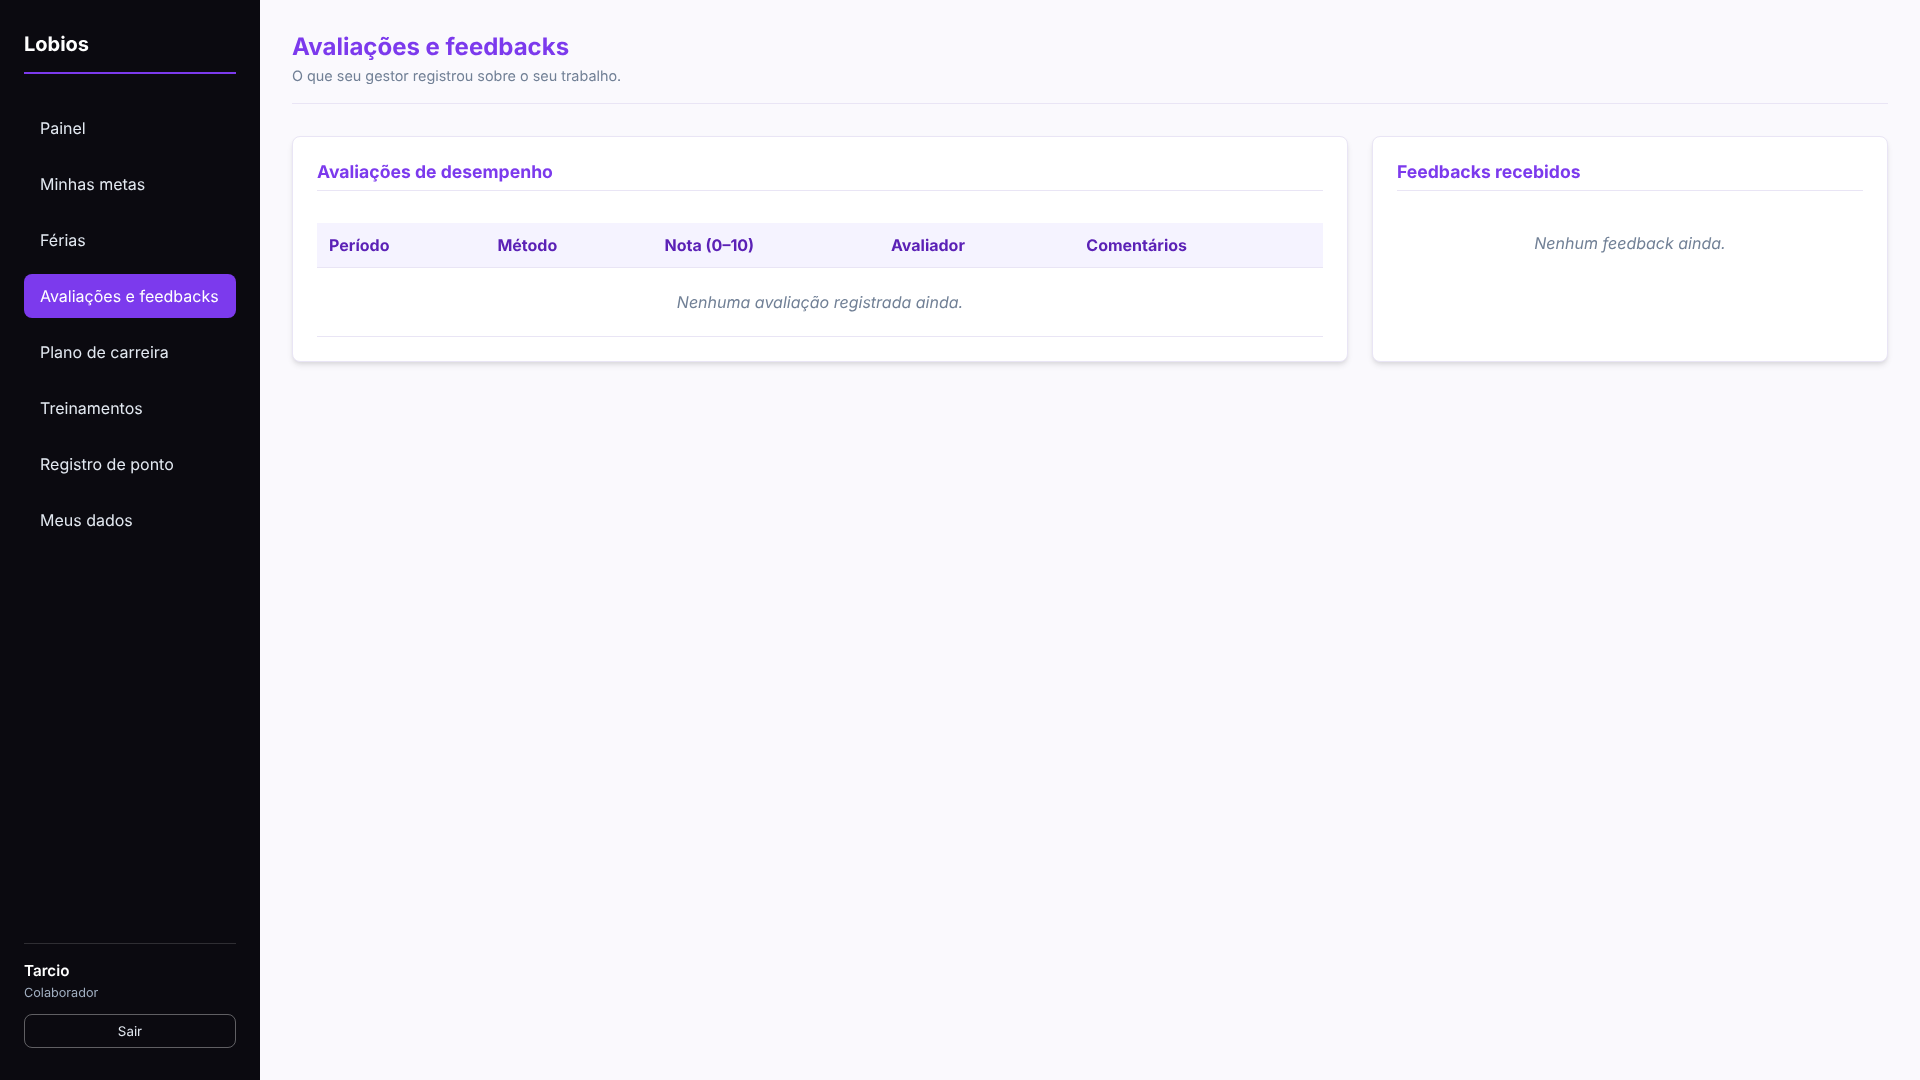
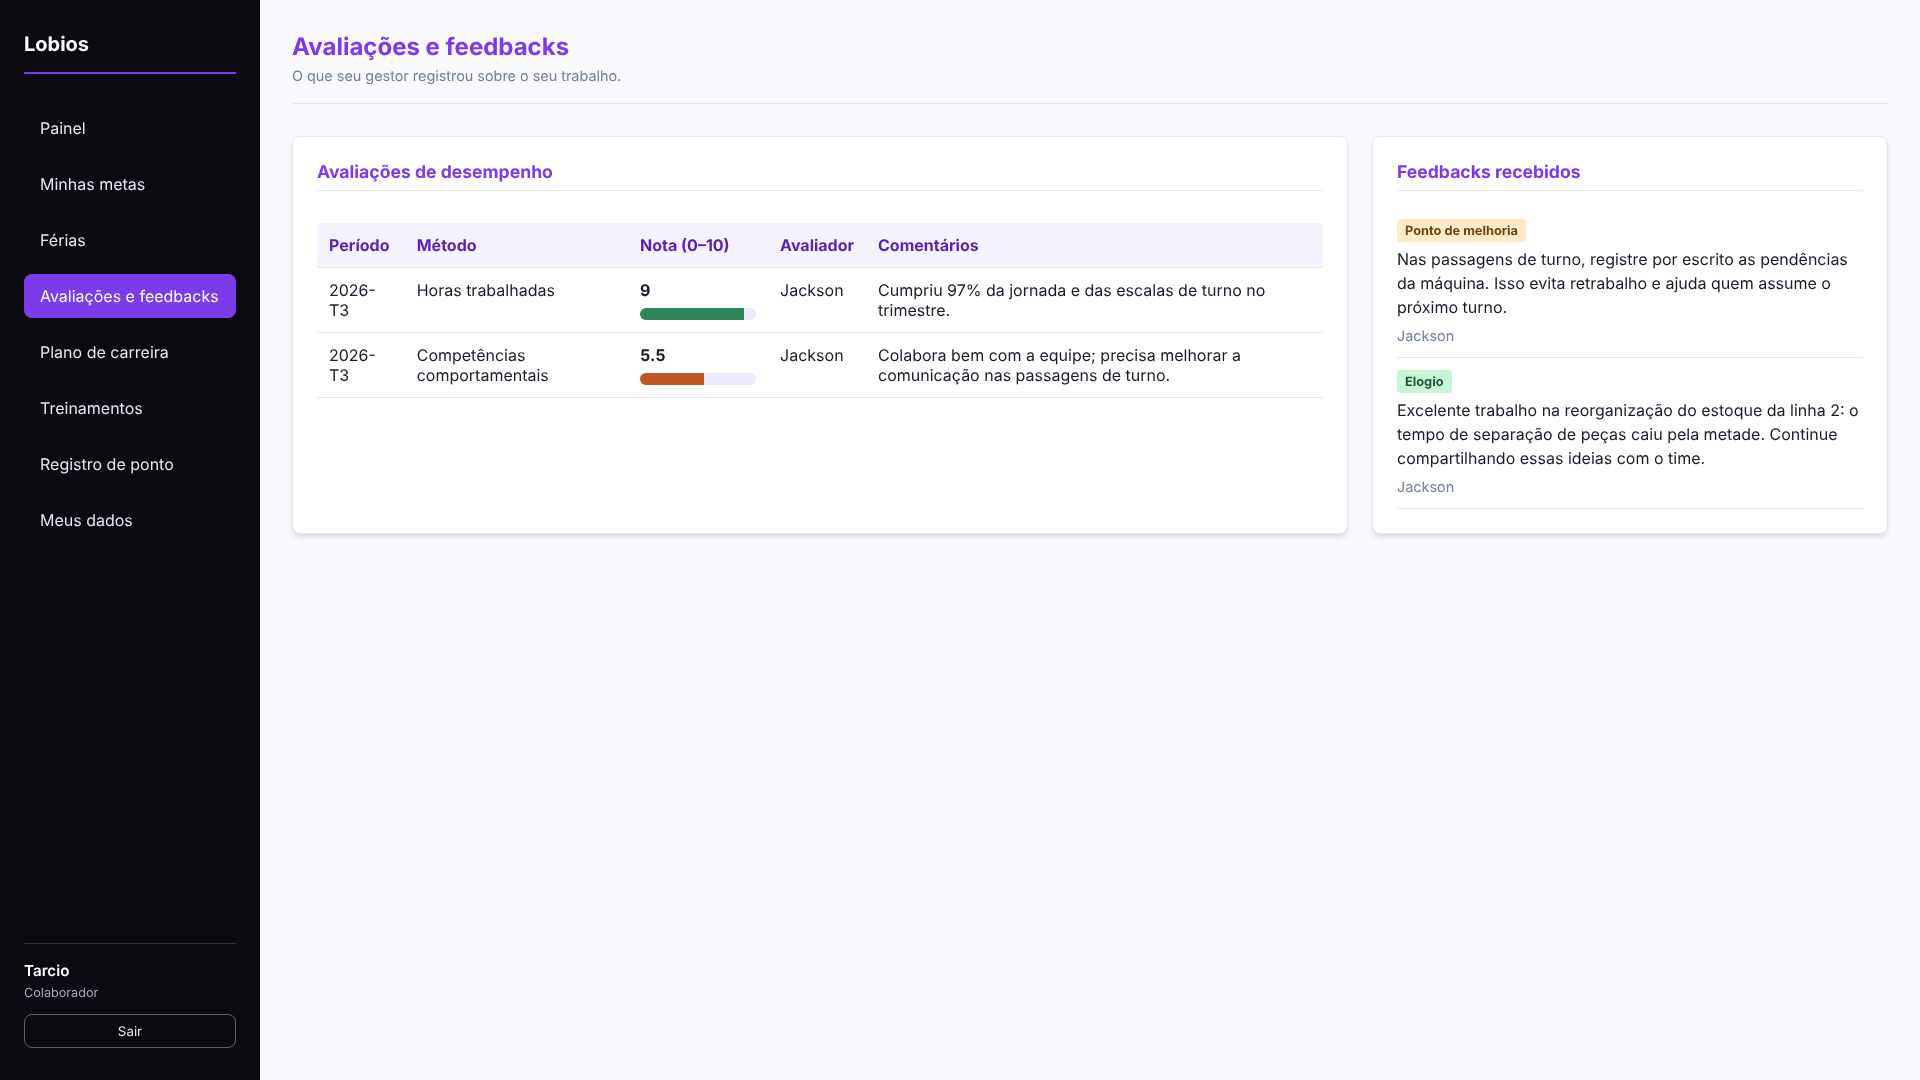
Vídeo: telas com dados de exemplo e foco ajustado
Recaptura das telas de Gestor e Colaborador depois de cadastrar metas,
avaliações e feedbacks de exemplo para a conta de teste do colaborador.
A legenda de Treinamentos agora mostra a recomendação automática gerada
pela nota da avaliação.

Claude-Session: https://claude.ai/code/session_012EX59QPL82HPL6jNwvfdeg

Changed region(s): [[0.1562, 0.2139, 0.6875, 0.3667], [0.7188, 0.1833, 0.9688, 0.4583], [0.2188, 0.2139, 0.2812, 0.275]]

diff --git a/video/src/data.ts b/video/src/data.ts
@@ -100,7 +100,7 @@ export const perfis: Perfil[] = [
       {
         imagem: "gestor-avaliacoes.png",
         menu: 2,
-        foco: [292, 136, 520, 640],
+        foco: [292, 136, 1596, 640],
         titulo: "Avaliações de desempenho",
         texto:
           "Escolha a pessoa, o método e o período e dê uma nota de 0 a 10. Os critérios definidos pelo RH aparecem como guia.",
@@ -108,7 +108,7 @@ export const perfis: Perfil[] = [
       {
         imagem: "gestor-feedbacks.png",
         menu: 3,
-        foco: [292, 136, 520, 440],
+        foco: [292, 136, 1596, 440],
         titulo: "Feedbacks",
         texto:
           "Elogios e pontos de melhoria enviados direto para a área do colaborador.",
@@ -116,7 +116,7 @@ export const perfis: Perfil[] = [
       {
         imagem: "gestor-metas.png",
         menu: 4,
-        foco: [292, 136, 520, 490],
+        foco: [292, 136, 1596, 490],
         titulo: "Metas da equipe",
         texto:
           "Crie metas com título, descrição e prazo para cada pessoa e acompanhe o andamento de todas.",
@@ -139,7 +139,7 @@ export const perfis: Perfil[] = [
       {
         imagem: "funcionario.png",
         menu: 0,
-        foco: [292, 136, 1596, 210],
+        foco: [292, 136, 1596, 290],
         titulo: "Painel",
         texto:
           "Ao entrar, o colaborador vê um resumo das metas, das férias, do último feedback e do plano de carreira.",
@@ -147,7 +147,7 @@ export const perfis: Perfil[] = [
       {
         imagem: "funcionario-metas.png",
         menu: 1,
-        foco: [292, 136, 1596, 180],
+        foco: [292, 136, 1596, 306],
         titulo: "Minhas metas",
         texto:
           "As metas criadas pelo gestor aparecem aqui, e o colaborador atualiza o status conforme avança.",
@@ -163,7 +163,7 @@ export const perfis: Perfil[] = [
       {
         imagem: "funcionario-desempenho.png",
         menu: 3,
-        foco: [292, 136, 1596, 230],
+        foco: [292, 136, 1596, 400],
         titulo: "Avaliações e feedbacks",
         texto:
           "Tudo o que o gestor registrou: notas por período e método, comentários e feedbacks recebidos.",
@@ -182,7 +182,7 @@ export const perfis: Perfil[] = [
         foco: [292, 136, 1190, 700],
         titulo: "Treinamentos",
         texto:
-          "Progresso de cada curso, recomendações geradas a partir das avaliações e o catálogo completo de cursos.",
+          "Progresso de cada curso e recomendações automáticas: a nota 5,5 em competências fez o sistema sugerir Liderança de Equipes.",
       },
       {
         imagem: "funcionario-ponto.png",
